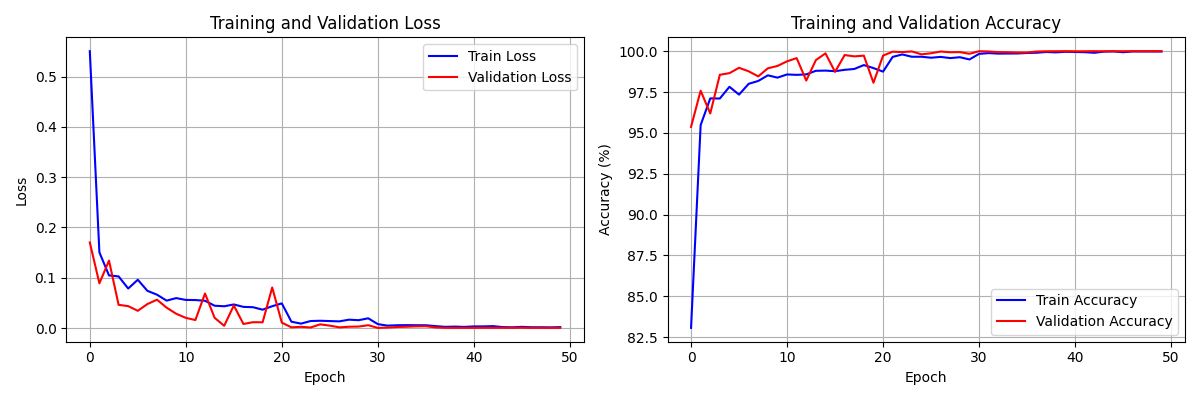
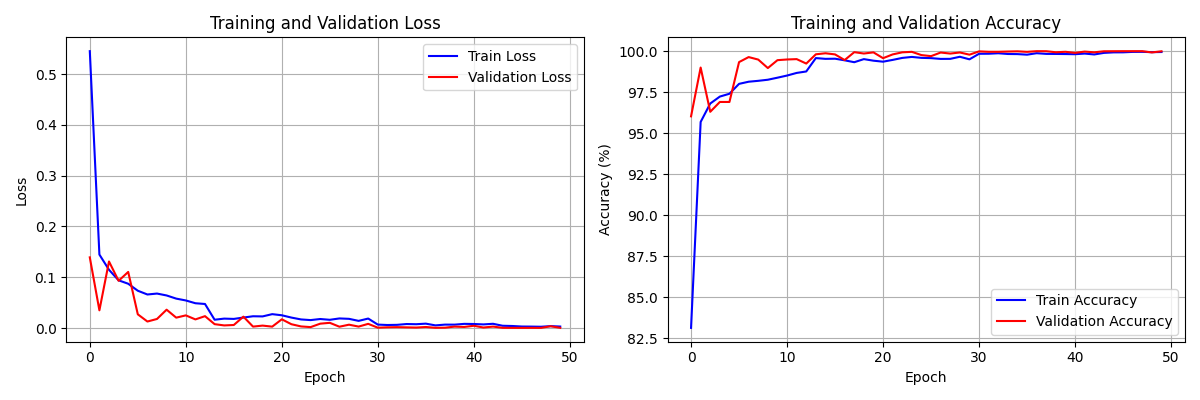
Specification update

diff --git a/README.md b/README.md
@@ -1,10 +1,50 @@
+# Traffic Sign Classification Using ResNet-18 on the GTSRB
+
+## Requirements
 Install dependencies:
 
-```pip install torch torchvision matplotlib seaborn scikit-learn matplotlib tqdm pandas pillow numpy```
+```pip install -r requirements.txt```
+## Quickstart
+- If you already trained your model with checkpoints saved in ```checkpoint/``` directory, run ```python3 run_eval.py```
+
+- Else if it is empty,You may train your model, run ```python3 run_train.py```
+## Datasets
+
+The dataset used for model training is the German
+Traffic Sign Recognition Benchmark (GTSRB)
+
+Dataset Composition
+
+- Total Images: Over 50,000 color images.
+
+- Number of Classes: 43 traffic sign categories (e.g., speed limits, prohibitions, warnings).
+
+- Image Format: RGB, variable resolutions.
+
+- Image Size (for training): Resized to 32×32 pixels for consistency with ResNet input requirements.
+
+- Color Space: Normalized RGB.
+
+- Dataset Split:
+
+  - Training Set: 80% of the images.
+
+  - Testing Set: 20% of the images.
+
+## ResNet model
+
+ResNet-18 Structure:
+
+- Input Layer: 3×48×48 RGB images
+- Convolutional Stem: 7×7 conv, BatchNorm, ReLU, MaxPool
+- Residual Blocks: 4 stages with [2,2,2,2] blocks each
+- Global Average Pooling: Reduces spatial dimensions
+- Classification Head: Modified from 1000 to 43 classes for GTSRB
 
 
+
+## Evaluation Logs
 First evaluation, no prior trainning:
-
 ```
 Each class accuracy:
  [  0.           0.           0.           0.           0.
@@ -25,13 +65,17 @@ Accuracy of ResNet model is 1.3% which low but expected
 After train for 50 epochs:
 Using device: cuda
 ```Each class accuracy:
- [100.          99.72222222  99.73333333  96.22222222  99.24242424
-  90.31746032  85.33333333  87.55555556  98.88888889  98.95833333
-  92.12121212  86.9047619   98.84057971  99.72222222  98.51851852
- 100.         100.          93.05555556  87.94871795  76.66666667
- 100.          66.66666667  91.66666667  96.          94.44444444
-  97.29166667 100.         100.          99.33333333 100.
-  62.66666667 100.         100.          99.52380952 100.
-  88.20512821  98.33333333  98.33333333  97.24637681  66.66666667
-  94.44444444  93.33333333  96.66666667]
-Testing finished, accuracy: 0.951```
+ [ 96.66666667  98.75        98.53333333  98.88888889  99.24242424
+  94.28571429  89.33333333  86.66666667  87.77777778  98.33333333
+  97.87878788  94.52380952  97.68115942  99.72222222  98.88888889
+  99.52380952 100.          92.22222222  95.64102564 100.
+ 100.          66.66666667  96.66666667  82.         100.
+  95.625       98.88888889  86.66666667  99.33333333 100.
+  62.66666667  98.51851852 100.         100.         100.
+  94.61538462  92.5         98.33333333  99.42028986  71.11111111
+  94.44444444  98.33333333 100.        ]
+Testing finished, accuracy: 0.958```
+
+Accuracy of ResNet model is 95.8% which low but expected
+
+
